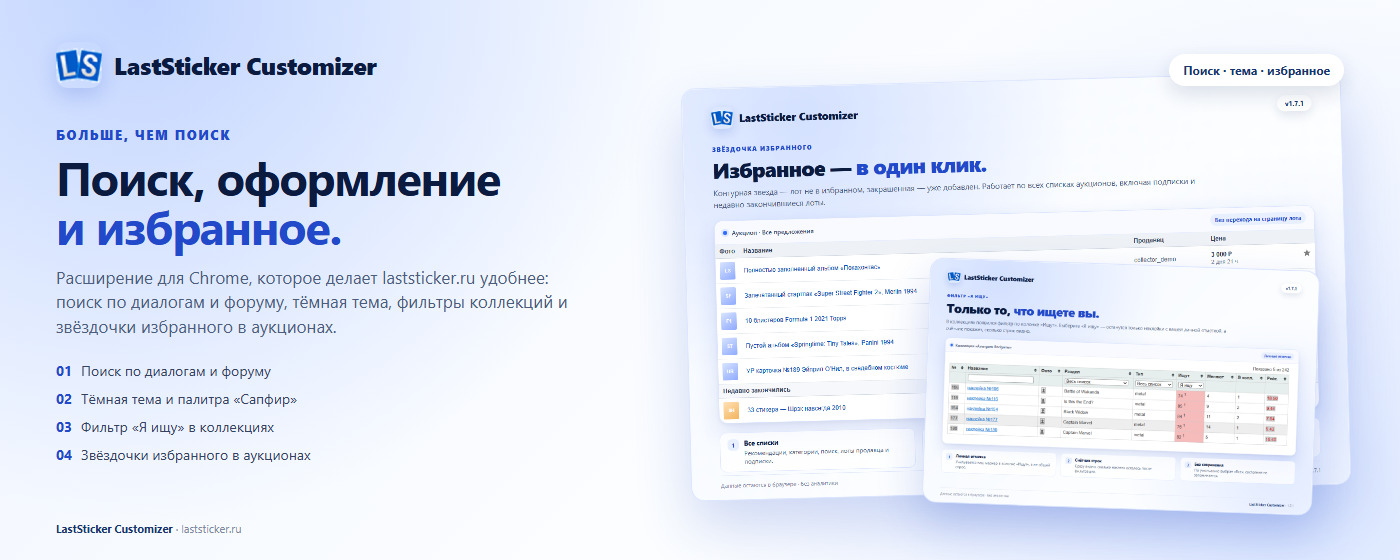
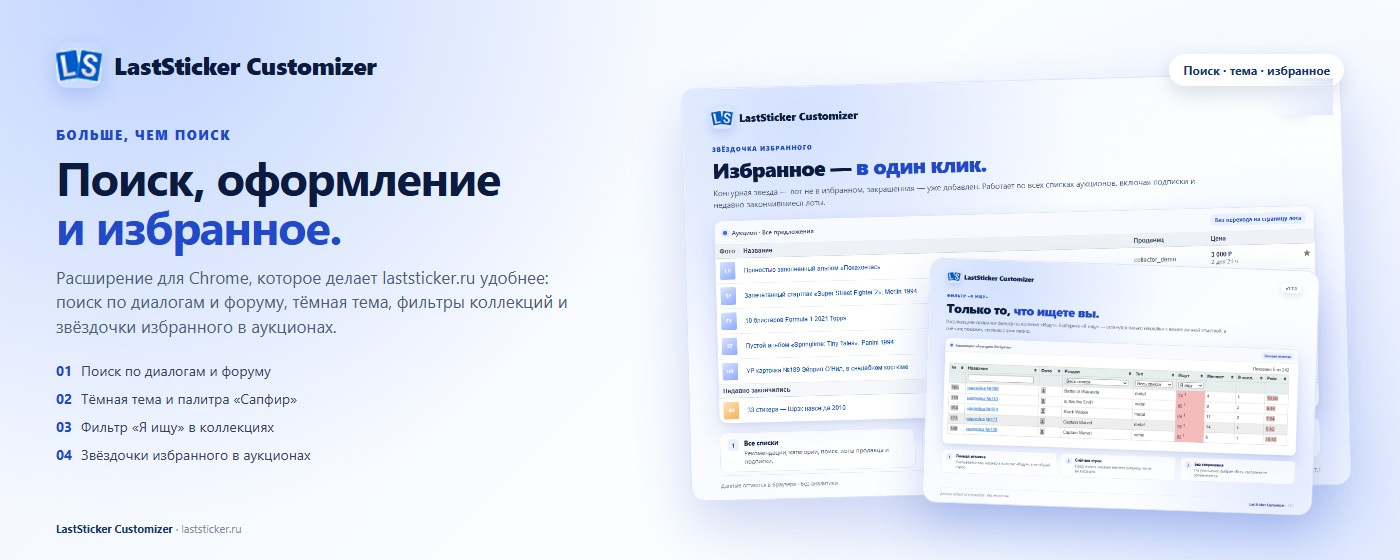
feat: drop the version from the store screenshots
The screenshots no longer carry a version badge, an in-mockup version or a
footer version, so they stay valid across releases. The popup stops showing
its version for the same reason, and the listing now points at version-free
file names.

diff --git a/popup.js b/popup.js
@@ -280,20 +280,6 @@
     const document = doc || root.document;
     if (!document) return null;
 
-    const version = byId(document, 'version');
-    if (
-      version &&
-      typeof chrome !== 'undefined' &&
-      chrome.runtime &&
-      typeof chrome.runtime.getManifest === 'function'
-    ) {
-      try {
-        version.textContent = `v${chrome.runtime.getManifest().version}`;
-      } catch {
-        version.textContent = '';
-      }
-    }
-
     Promise.all([
       store.loadTheme(),
       loadMasterEnabled(),

diff --git a/popup.css b/popup.css
@@ -124,13 +124,6 @@ body {
   color: var(--popup-muted);
 }
 
-.ls-version {
-  margin-left: auto;
-  align-self: flex-start;
-  color: var(--popup-muted);
-  font-size: 10px;
-}
-
 .ls-popup-main {
   padding: 12px 16px 4px;
 }

diff --git a/popup.html b/popup.html
@@ -19,7 +19,6 @@
         <h1>LastSticker Customizer</h1>
         <p>Оформление</p>
       </div>
-      <span class="ls-version" id="version"></span>
     </header>
 
     <main class="ls-popup-main">

diff --git a/store/listing-ru.md b/store/listing-ru.md
@@ -110,13 +110,13 @@
 
 ## Small promo tile
 
-Файл: `store/promo-440x280-1.7.1.png` — 440×280 PNG, 24-бит, без альфа-канала. Используется без изменений: визуально расширение не менялось.
+Файл: `store/promo-440x280.png` — 440×280 PNG, 24-бит, без альфа-канала. Используется без изменений: визуально расширение не менялось.
 
 Загрузить: **Store listing → Graphic assets → Small promo tile**.
 
 ## Marquee promo tile
 
-Файл: `store/marquee-1400x560-1.7.1.jpg` — 1400×560 JPEG, 24-бит, без альфа-канала. Используется без изменений.
+Файл: `store/marquee-1400x560.jpg` — 1400×560 JPEG, 24-бит, без альфа-канала. Используется без изменений.
 
 Загрузить: **Store listing → Graphic assets → Marquee promo tile**.
 
@@ -130,15 +130,17 @@
 
 Максимум для карточки — 5. Рекомендуемый набор:
 
-1. `store/screenshot-dialogs-1.7.1.png` — поиск по всем диалогам;
-2. `store/screenshot-settings-1.7.1.png` — тёмная тема и настройки палитры;
-3. `store/screenshot-hunt-1.7.1.png` — фильтр «Я ищу» в коллекции;
-4. `store/screenshot-auction-stars-1.7.1.png` — звёздочки избранного в списке аукционов;
-5. `store/screenshot-highlight-1.7.1.png` — сапфировая подсветка найденного сообщения.
+1. `store/screenshot-dialogs.png` — поиск по всем диалогам;
+2. `store/screenshot-settings.png` — тёмная тема и настройки палитры;
+3. `store/screenshot-hunt.png` — фильтр «Я ищу» в коллекции;
+4. `store/screenshot-auction-stars.png` — звёздочки избранного в списке аукционов;
+5. `store/screenshot-highlight.png` — сапфировая подсветка найденного сообщения.
 
-Альтернативы: `store/screenshot-forum-1.7.1.png` — поиск по форуму, `store/screenshot-theme-1.6.0.png` — старая тёмная тема. Старые снимки `*-1.6.4.png` и `*-1.5.0.png` оставлены для истории.
+Альтернативы: `store/screenshot-forum.png` — поиск по форуму, `store/screenshot-theme-1.6.0.png` — старая тёмная тема. Старые снимки `*-1.6.4.png` и `*-1.5.0.png` оставлены для истории.
 
 Все скриншоты — 1280×800, 24-бит PNG, без альфа-канала. В кадре не должно быть реальных личных сообщений; имена и тексты демонстрационные.
+
+**Версию на изображения не добавляем**: ни бейджем, ни подписью, ни в имени файла. Иначе при каждом релизе ассеты придётся пересобирать и перезагружать.
 
 ## Что проверить перед отправкой
 
@@ -149,7 +151,7 @@
 - Название в карточке — LastSticker Customizer.
 - Краткое описание совпадает с `manifest.json`.
 - Подробное описание и What's new взяты из файлов 1.8.0.
-- В карточке пять скриншотов; снимки 1.7.1 актуальны, если визуальных изменений нет.
+- В карточке пять скриншотов; на снимках и в именах файлов нет номера версии, поэтому они остаются актуальными для любого релиза.
 - Политика конфиденциальности доступна по публичному URL без входа и содержит пункт про `unlimitedStorage`.
 - В карточке нет обещаний, которых расширение не выполняет.
 - Черновик 1.7.1 не находится на проверке в момент загрузки 1.8.0.

diff --git a/store/submission-checklist-1.8.0.md b/store/submission-checklist-1.8.0.md
@@ -18,7 +18,7 @@
 - Описание карточки: `store/listing-ru.md`.
 - Политика: `PRIVACY.md`, `docs/privacy.html`.
 - Release notes для GitHub: `store/release-notes-1.8.0.md`.
-- Промо и скриншоты: файлы `*-1.7.1.*` — интерфейс визуально не менялся, снимки переиспользуются.
+- Промо и скриншоты: `store/screenshot-*.png`, `store/promo-440x280.png`, `store/marquee-1400x560.jpg` — без номера версии на изображениях и в именах, поэтому не требуют обновления при смене версии.
 - **Не отправлять на проверку без отдельного согласования.**
 
 ## 1. Проверить версию и собрать ZIP
@@ -55,7 +55,7 @@ npm run package
 5. В поле **What's new** вставить `store/whats-new-1.8.0.txt`.
 6. В разделе **Privacy practices** ничего не меняется: данные по-прежнему только локальные,
    remote code — No, но проверьте, что обоснование `unlimitedStorage` совпадает с листингом.
-7. Скриншоты и промо оставить прежними (файлы `*-1.7.1.*`): визуальных изменений нет,
+7. Скриншоты и промо оставить прежними (`store/screenshot-*.png`, промо без номера версии): визуальных изменений нет,
    новые снимки не требуются.
 8. **Не отправлять на проверку** до отдельного согласования.
 
